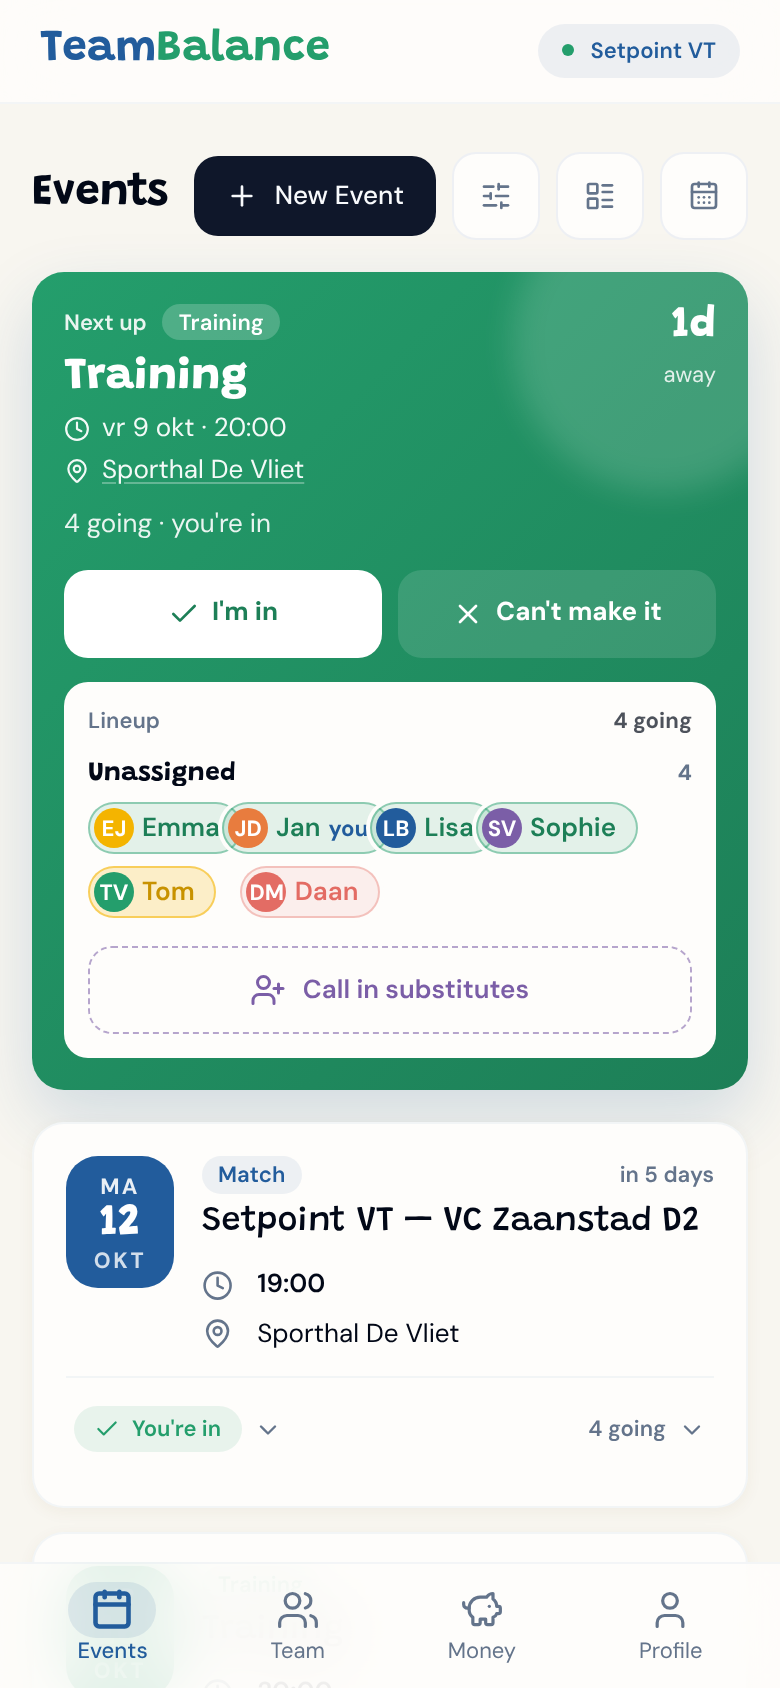
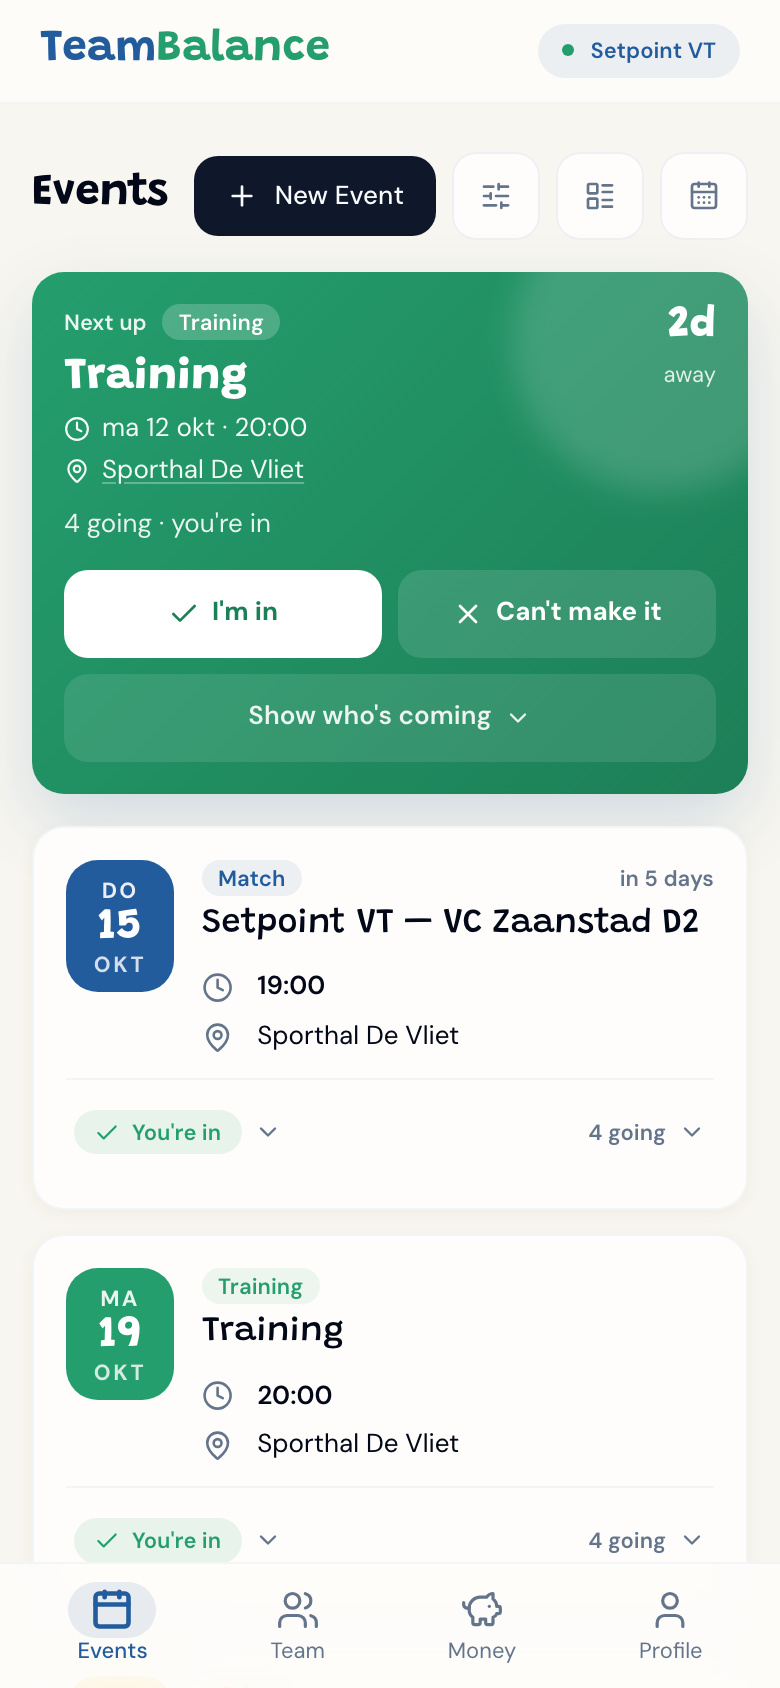
chore(app): regenerate the PWA install screenshots for the shorter hero
The events overview changed visibly (#386): the hero's lineup now sits behind
a disclosure, so the install-dialog previews are recaptured on top of main's
calendar-link header. Also drops a stale comment in roster-config.spec.ts
that still described the hero as carrying no roster panel.

diff --git a/app/e2e-real/roster-config.spec.ts b/app/e2e-real/roster-config.spec.ts
@@ -11,8 +11,9 @@ import { test, expect } from '@playwright/test'
  * read, and every roster state is a Storybook story with a Chromatic baseline; the numbers behind
  * them are pinned by RosterFillTest and RosterFillIT. Asserting them again through a browser would
  * duplicate that coverage rather than add a seam. (It would also be awkward: the seeded e2e event is
- * within the 7-day window, so Phase 1 renders it as the hero — which carries no roster panel — and
- * the spec would have to manufacture a further-out event just to get a card on screen.)
+ * within the 7-day window, so the events page renders it as the hero — whose lineup sits behind a
+ * disclosure like the cards' — and the spec would have to manufacture a further-out event just to
+ * get a card on screen.)
  *
  * Starts authenticated as the seeded admin via the storageState fixture (auth.setup.ts).
  *
